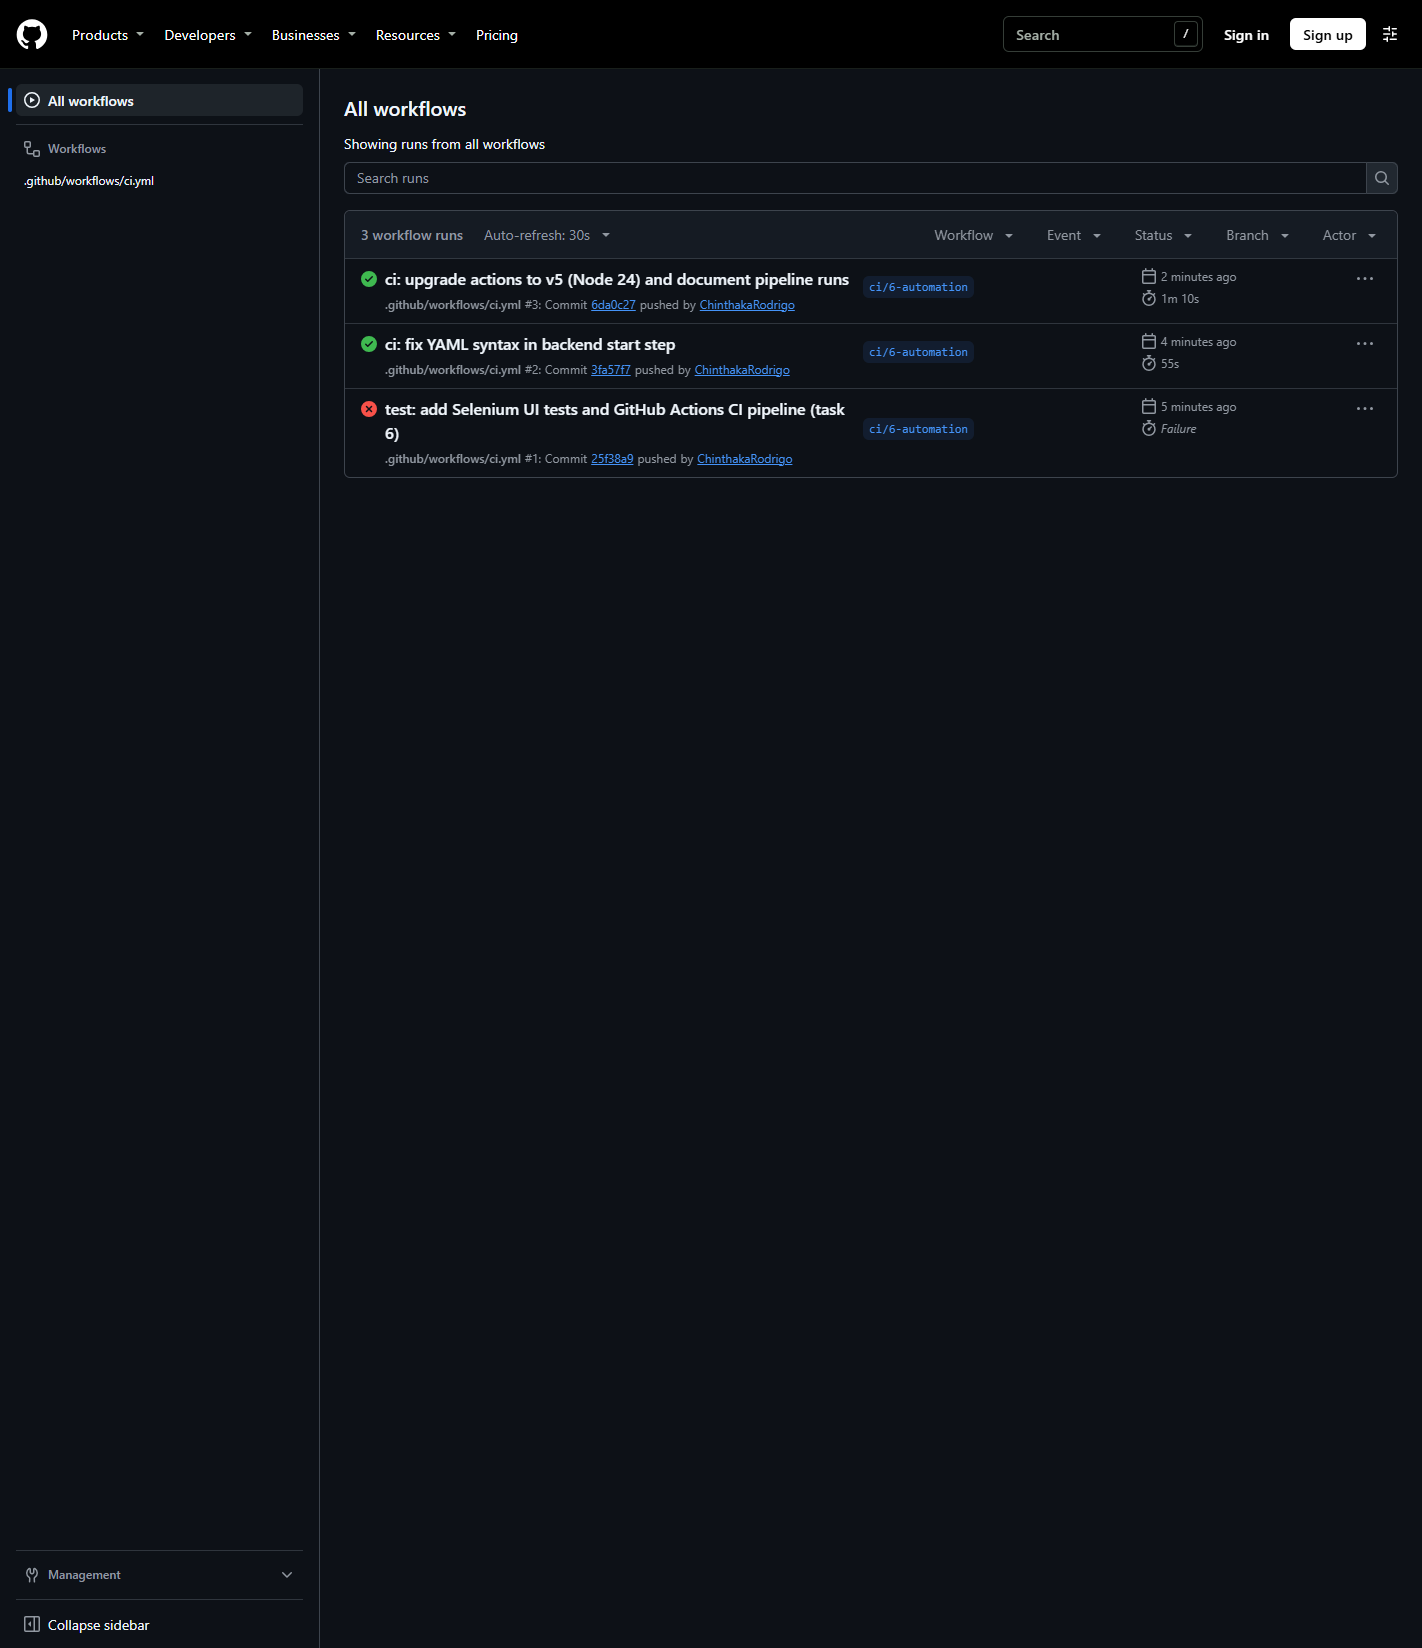
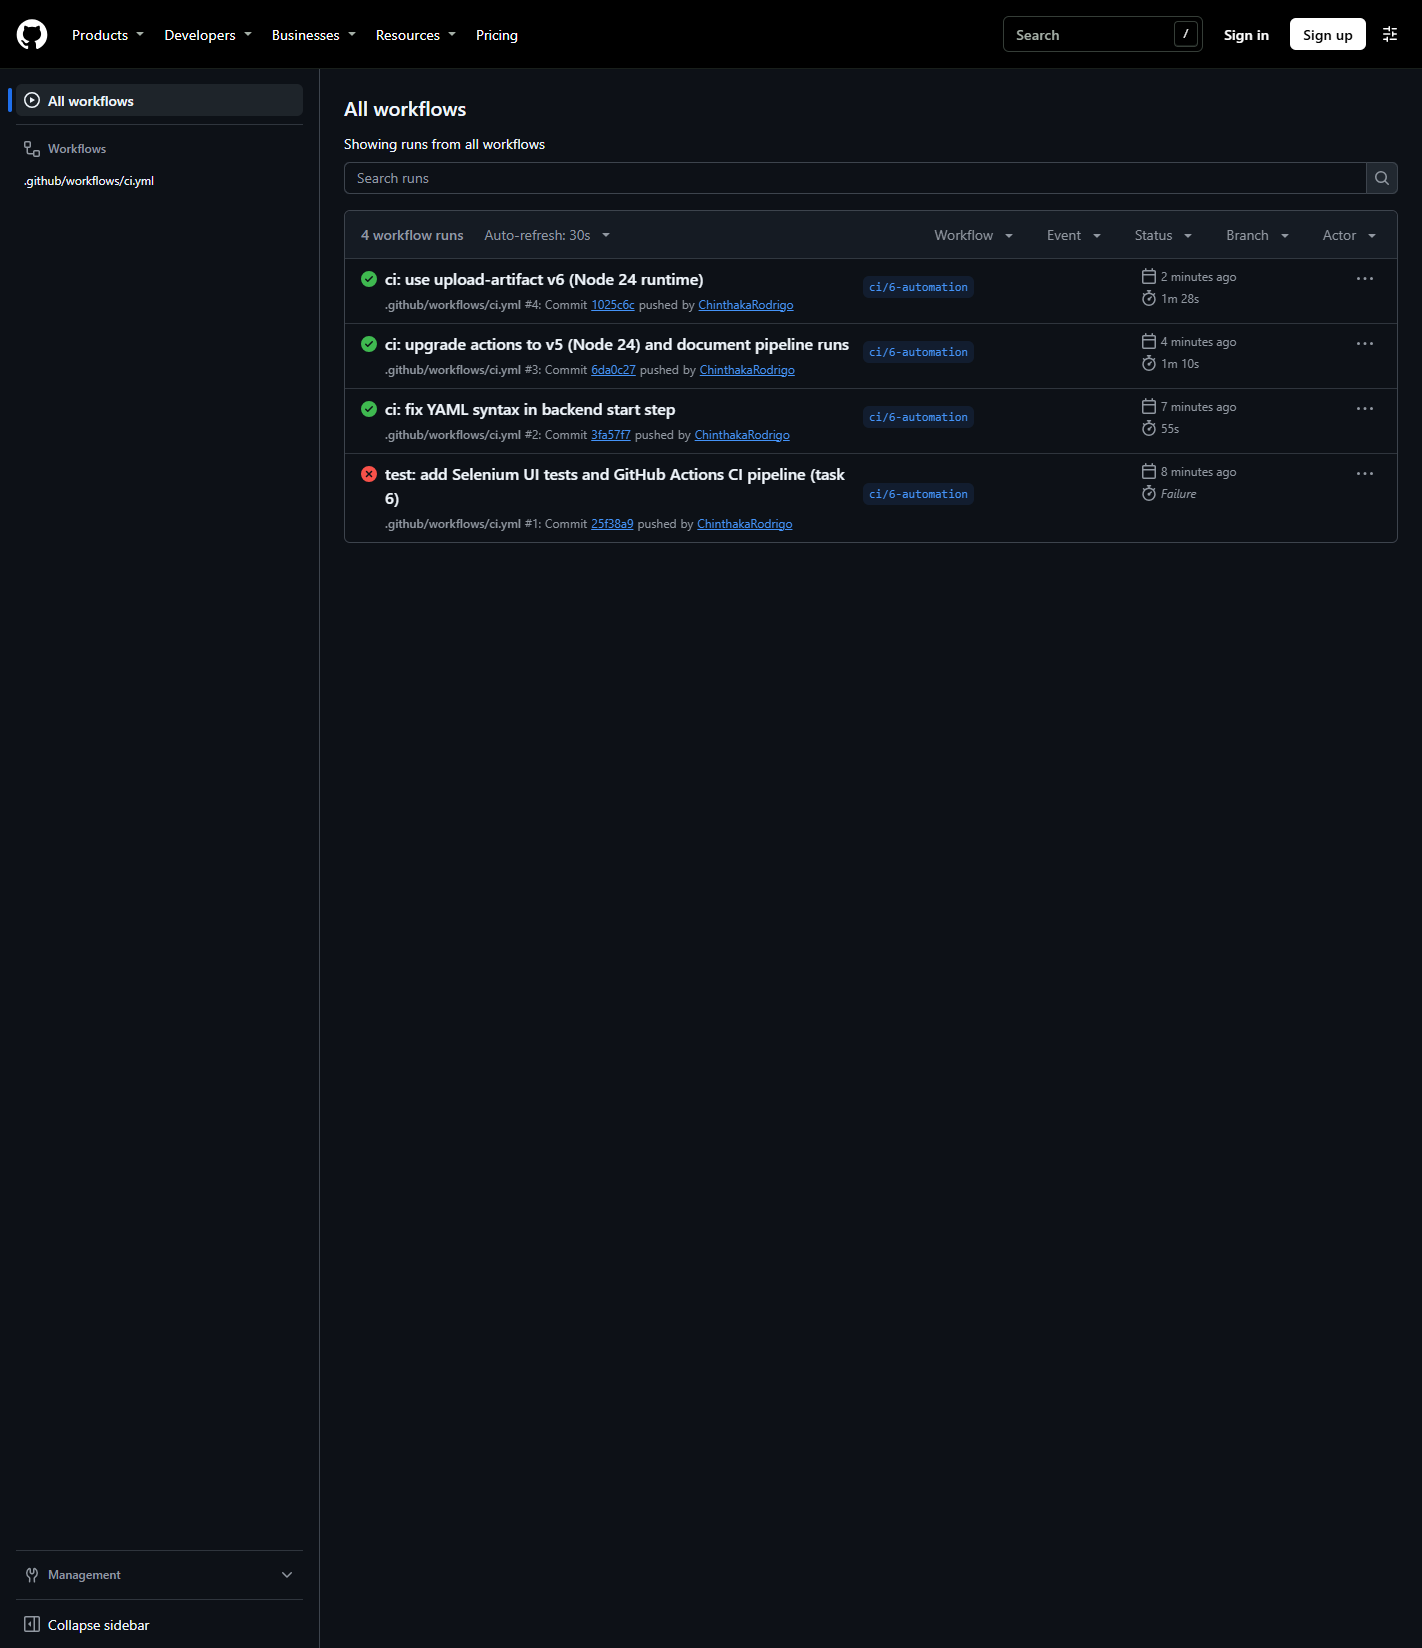
docs: add passing pipeline evidence (run #4)

Changed region(s): [[0.2475, 0.1547, 0.5879, 0.3404], [0.6188, 0.2476, 0.6807, 0.3095], [0.8045, 0.2785, 0.8664, 0.3095]]

diff --git a/library-system/docs/06-test-automation-and-ci.md b/library-system/docs/06-test-automation-and-ci.md
@@ -127,9 +127,9 @@ The workflow was pushed on branch `ci/6-automation`.
 | Run | Commit | Result | Notes |
 |---|---|---|---|
 | #1 | `25f38a9` | ❌ Failure | *Invalid workflow file*: in `run: DB_FILE=:memory: nohup …`, YAML reads the `: ` (colon followed by a space) as a key/value separator. Fix: move `DB_FILE` into the step's `env:` block. |
-| #2 | `3fa57f7` | ✅ Success | All 3 jobs passed: backend 29 s, frontend 14 s, Selenium UI 21 s, 55 s in total. 3 artifacts were uploaded. |
-
-Run #2 showed a warning that the `@v4` actions run on the deprecated Node.js 20. The actions were then updated to `@v5`.
+| #2 | `3fa57f7` | ✅ Success | All 3 jobs passed: backend 29 s, frontend 14 s, Selenium UI 21 s, 55 s in total. 3 artifacts were uploaded. There were 3 warnings because the `@v4` actions run on the deprecated Node.js 20. |
+| #3 | `6da0c27` | ✅ Success | Moved `checkout` and `setup-node` to `@v5`. `upload-artifact@v5` still targets Node.js 20, so it still gave a warning. |
+| #4 | `1025c6c` | ✅ Success | Moved `upload-artifact` to `@v6` (Node.js 24). All 3 jobs passed with **no warnings**: backend 36 s, frontend 20 s, Selenium UI 46 s, 1 min 28 s in total. **This is the evidence run.** |
 
 The screenshots below were taken with `scripts/capture-pipeline.js`, which opens the public run pages in headless Chrome. To make them again for any run of this public repository:
 
